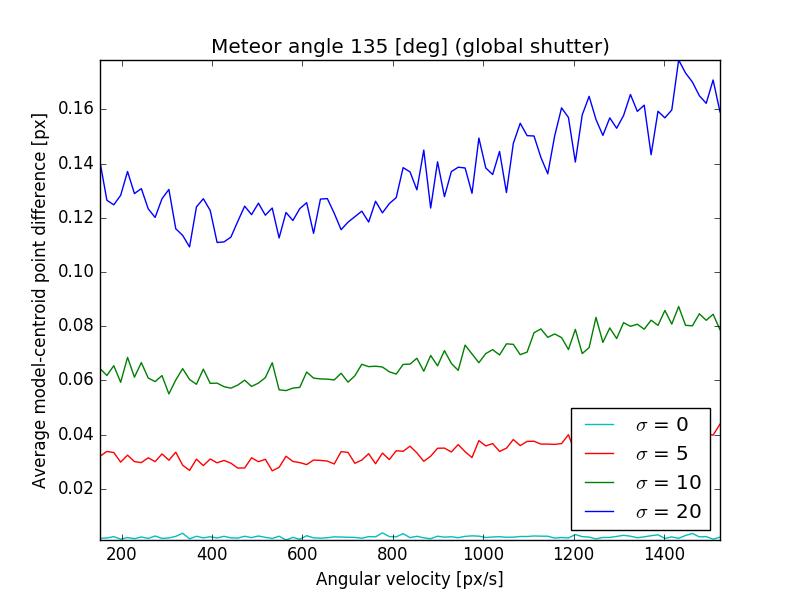
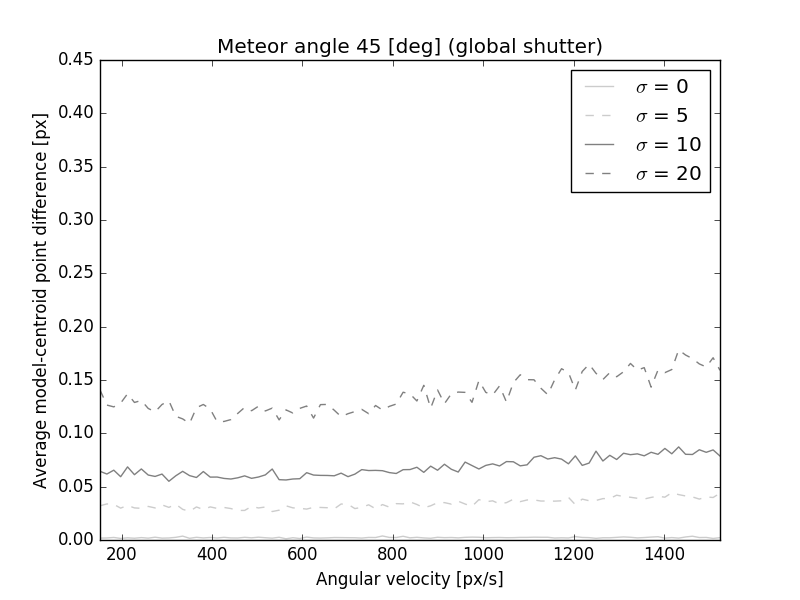
changed plotting

diff --git a/Source/SimulationTools.py b/Source/SimulationTools.py
@@ -413,7 +413,11 @@ def pointsCentroidAndModel(rolling_shutter, t_meteor, phi, omega, img_x, img_y, 
             
             # print(x_start, y_start, x_finish, y_finish)
 
-            #plt.xkcd()
+            # plt.xkcd()
+
+            # t_finish -= 0.5*1/fps
+            # t_mid = (t_start + t_finish/2)
+            # x_model, y_model = drawPoints(t_mid, x_center, y_center, scale, phi, omega, fit_param, t_meteor) 
 
             # Plot crop window
             plt.gca().add_patch(patches.Rectangle((x_start, y_start), x_finish - x_start, \
@@ -423,16 +427,16 @@ def pointsCentroidAndModel(rolling_shutter, t_meteor, phi, omega, img_x, img_y, 
             plt.scatter(x_centr, y_centr, c='red', marker='o', label = 'centroid', s = 70)
 
             # Plot model centre
-            plt.scatter(x_model, y_model, c='blue', marker='o', label = 'model', s = 70)
+            plt.scatter(x_model, y_model, c='blue', marker='^', label = 'model', s = 70)
 
             if corr_coord != None:
                 plt.scatter(corrx, corry, c = 'green', marker = 'o', label = 'corrected', s = 70)
 
-            #  plt.axhline(y=y_model, c='b')
+            plt.axhline(y=y_model, c='b')
 
-            # (x_st, x_fin, y_st, y_fin) = calcSigmaWindowLimits(x_model, x_model, sigma_x*10, y_model, y_model, sigma_y*10, phi)
-            # plt.xlim([x_st, x_fin])
-            # plt.ylim([y_fin, y_st])
+            (x_st, x_fin, y_st, y_fin) = calcSigmaWindowLimits(x_model, x_model, sigma_x*10, y_model, y_model, sigma_y*10, phi)
+            plt.xlim([x_st, x_fin])
+            plt.ylim([y_fin, y_st])
 
             plt.legend(loc='upper right')
             plt.show()

diff --git a/Source/ODN-GPlot.py b/Source/ODN-GPlot.py
@@ -17,19 +17,21 @@ noise2_data = data['arr_3']
 noise3_data = data['arr_4']
 
 # Plot all four noise arrays
-plt.plot(omega_arr, noise0_data, 'c-', label = '$\sigma$ = {}'.format(par.noise_scale_arr[0]))
-plt.plot(omega_arr, noise1_data, 'r-', label = '$\sigma$ = {}'.format(par.noise_scale_arr[1]))
-plt.plot(omega_arr, noise2_data, 'g-', label = '$\sigma$ = {}'.format(par.noise_scale_arr[2]))
-plt.plot(omega_arr, noise3_data, 'b-', label = '$\sigma$ = {}'.format(par.noise_scale_arr[3]))
+plt.plot(omega_arr, noise0_data, c = '0.8', ls = '-', label = '$\sigma$ = {}'.format(par.noise_scale_arr[0]))
+plt.plot(omega_arr, noise1_data, c = '0.8', ls = '--', label = '$\sigma$ = {}'.format(par.noise_scale_arr[1]))
+plt.plot(omega_arr, noise2_data, c = '0.5', ls = '-', label = '$\sigma$ = {}'.format(par.noise_scale_arr[2]))
+plt.plot(omega_arr, noise3_data, c = '0.5', ls = '--', label = '$\sigma$ = {}'.format(par.noise_scale_arr[3]))
 
 # Label the plot, set plot title, set legend
-plt.legend(loc = 'lower right')
+plt.legend(loc = 'best')
 plt.xlabel("Angular velocity [px/s]")
 plt.ylabel("Average model-centroid point difference [px]")
 plt.title("Meteor angle {} [deg] (global shutter)".format(par.phi))
 
 # Configure the plot axis
 plt.axis('tight')
+
+plt.ylim((0, 0.45))
 
 # Save and show plot
 plt.savefig('../Graphs/ODN/graph_odn_global.png')

diff --git a/Source/ODN-RPlot.py b/Source/ODN-RPlot.py
@@ -17,10 +17,10 @@ noise2_data = data['arr_3']
 noise3_data = data['arr_4']
 
 # Plot all four noise arrays
-plt.plot(omega_arr, noise0_data, 'c-', label = '$\sigma$ = {}'.format(par.noise_scale_arr[0]))
-plt.plot(omega_arr, noise1_data, 'r-', label = '$\sigma$ = {}'.format(par.noise_scale_arr[1]))
-plt.plot(omega_arr, noise2_data, 'g-', label = '$\sigma$ = {}'.format(par.noise_scale_arr[2]))
-plt.plot(omega_arr, noise3_data, 'b-', label = '$\sigma$ = {}'.format(par.noise_scale_arr[3]))
+plt.plot(omega_arr, noise0_data, c = '0.8', ls = '-', label = '$\sigma$ = {}'.format(par.noise_scale_arr[0]))
+plt.plot(omega_arr, noise1_data, c = '0.8', ls = '--', label = '$\sigma$ = {}'.format(par.noise_scale_arr[1]))
+plt.plot(omega_arr, noise2_data, c = '0.5', ls = '-', label = '$\sigma$ = {}'.format(par.noise_scale_arr[2]))
+plt.plot(omega_arr, noise3_data, c = '0.5', ls = '--', label = '$\sigma$ = {}'.format(par.noise_scale_arr[3]))
 
 # Label the plot, set plot title, set legend
 plt.legend(loc = 'lower right')

diff --git a/Source/ODN-Rtemp_corrPlot.py b/Source/ODN-Rtemp_corrPlot.py
@@ -17,10 +17,10 @@ noise2_data = data['arr_3']
 noise3_data = data['arr_4']
 
 # Plot all four noise arrays
-plt.plot(omega_arr, noise0_data, 'c-', label = '$\sigma$ = {}'.format(par.noise_scale_arr[0]))
-plt.plot(omega_arr, noise1_data, 'r-', label = '$\sigma$ = {}'.format(par.noise_scale_arr[1]))
-plt.plot(omega_arr, noise2_data, 'g-', label = '$\sigma$ = {}'.format(par.noise_scale_arr[2]))
-plt.plot(omega_arr, noise3_data, 'b-', label = '$\sigma$ = {}'.format(par.noise_scale_arr[3]))
+plt.plot(omega_arr, noise0_data, c = '0.8', ls = '-', label = '$\sigma$ = {}'.format(par.noise_scale_arr[0]))
+plt.plot(omega_arr, noise1_data, c = '0.8', ls = '--', label = '$\sigma$ = {}'.format(par.noise_scale_arr[1]))
+plt.plot(omega_arr, noise2_data, c = '0.5', ls = '-', label = '$\sigma$ = {}'.format(par.noise_scale_arr[2]))
+plt.plot(omega_arr, noise3_data, c = '0.5', ls = '--', label = '$\sigma$ = {}'.format(par.noise_scale_arr[3]))
 
 # Label the plot, set plot title, set legend
 plt.legend(loc = 'best')

diff --git a/Source/ODN-Rv_corrPlot.py b/Source/ODN-Rv_corrPlot.py
@@ -17,10 +17,10 @@ noise2_data = data['arr_3']
 noise3_data = data['arr_4']
 
 # Plot all four noise arrays
-plt.plot(omega_arr, noise0_data, 'c-', label = '$\sigma$ = {}'.format(par.noise_scale_arr[0]))
-plt.plot(omega_arr, noise1_data, 'r-', label = '$\sigma$ = {}'.format(par.noise_scale_arr[1]))
-plt.plot(omega_arr, noise2_data, 'g-', label = '$\sigma$ = {}'.format(par.noise_scale_arr[2]))
-plt.plot(omega_arr, noise3_data, 'b-', label = '$\sigma$ = {}'.format(par.noise_scale_arr[3]))
+plt.plot(omega_arr, noise0_data, c = '0.8', ls = '-', label = '$\sigma$ = {}'.format(par.noise_scale_arr[0]))
+plt.plot(omega_arr, noise1_data, c = '0.8', ls = '--', label = '$\sigma$ = {}'.format(par.noise_scale_arr[1]))
+plt.plot(omega_arr, noise2_data, c = '0.5', ls = '-', label = '$\sigma$ = {}'.format(par.noise_scale_arr[2]))
+plt.plot(omega_arr, noise3_data, c = '0.5', ls = '--', label = '$\sigma$ = {}'.format(par.noise_scale_arr[3]))
 
 # Label the plot, set plot title, set legend
 plt.legend(loc = 'best')

diff --git a/Source/ODN-RSim.py b/Source/ODN-RSim.py
@@ -10,7 +10,7 @@ import Parameters as par
 
 # Parameters that are used only for this simulation
 rolling_shutter = True
-show_plots = True
+show_plots = False
 
 # Number of iterations for each angular velocity value - 
 # used to have a better representatin of the actual difference value
@@ -34,7 +34,7 @@ for noise in par.noise_scale_arr:
 
 			# Get model and centroid coordinates
 			time_coordinates, centroid_coordinates, model_coordinates = st.pointsCentroidAndModel(rolling_shutter, par.t_meteor, par.phi, \
-            	omega_iter, par.img_x, par.img_y, par.scale, par.fps, par.sigma_x, par.sigma_y, noise, par.offset, par.fit_param, par.show_plots)
+            	omega_iter, par.img_x, par.img_y, par.scale, par.fps, par.sigma_x, par.sigma_y, noise, par.offset, par.fit_param, show_plots)
 
 			# Compute difference
 			diff = st.centroidAverageDifference(centroid_coordinates, model_coordinates)

diff --git a/Figures/Source/meteors_generator.py b/Figures/Source/meteors_generator.py
@@ -5,12 +5,13 @@ sys.path.insert(0, "../../Source")
 import SimulationTools as st 
 import Parameters as par 
 
-rolling_shutter = False
-phi = 135
-omega = 45
+rolling_shutter = True
+phi = 45
+omega = 50
 show_plots = True
 noise_scale = 10
+t_meteor = 0.5
 
 # Get model and centroid coordinates
-time_coordinates, centroid_coordinates, model_coordinates = st.pointsCentroidAndModel(rolling_shutter, par.t_meteor, phi, \
+time_coordinates, centroid_coordinates, model_coordinates = st.pointsCentroidAndModel(rolling_shutter, t_meteor, phi, \
 	omega, par.img_x, par.img_y, par.scale, par.fps, par.sigma_x, par.sigma_y, noise_scale, par.offset, par.fit_param, show_plots)
